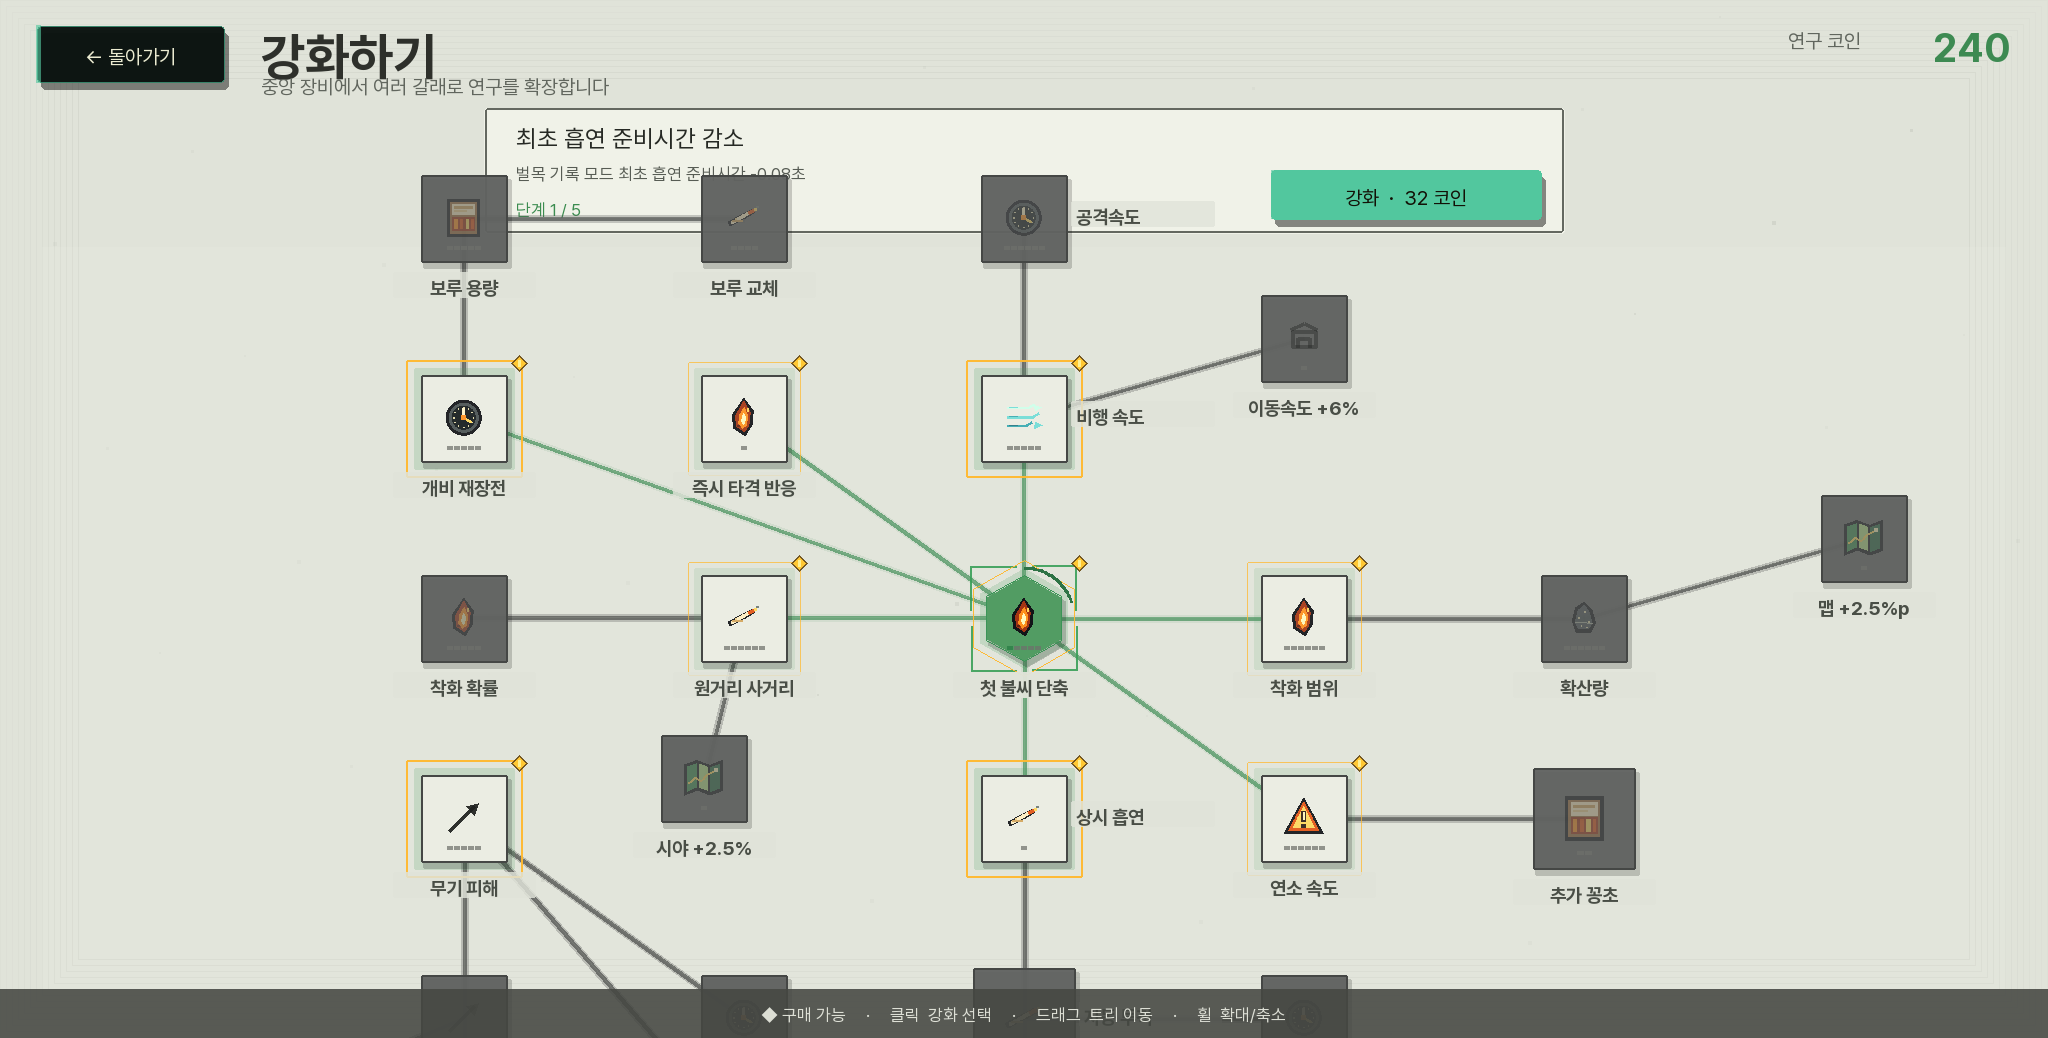
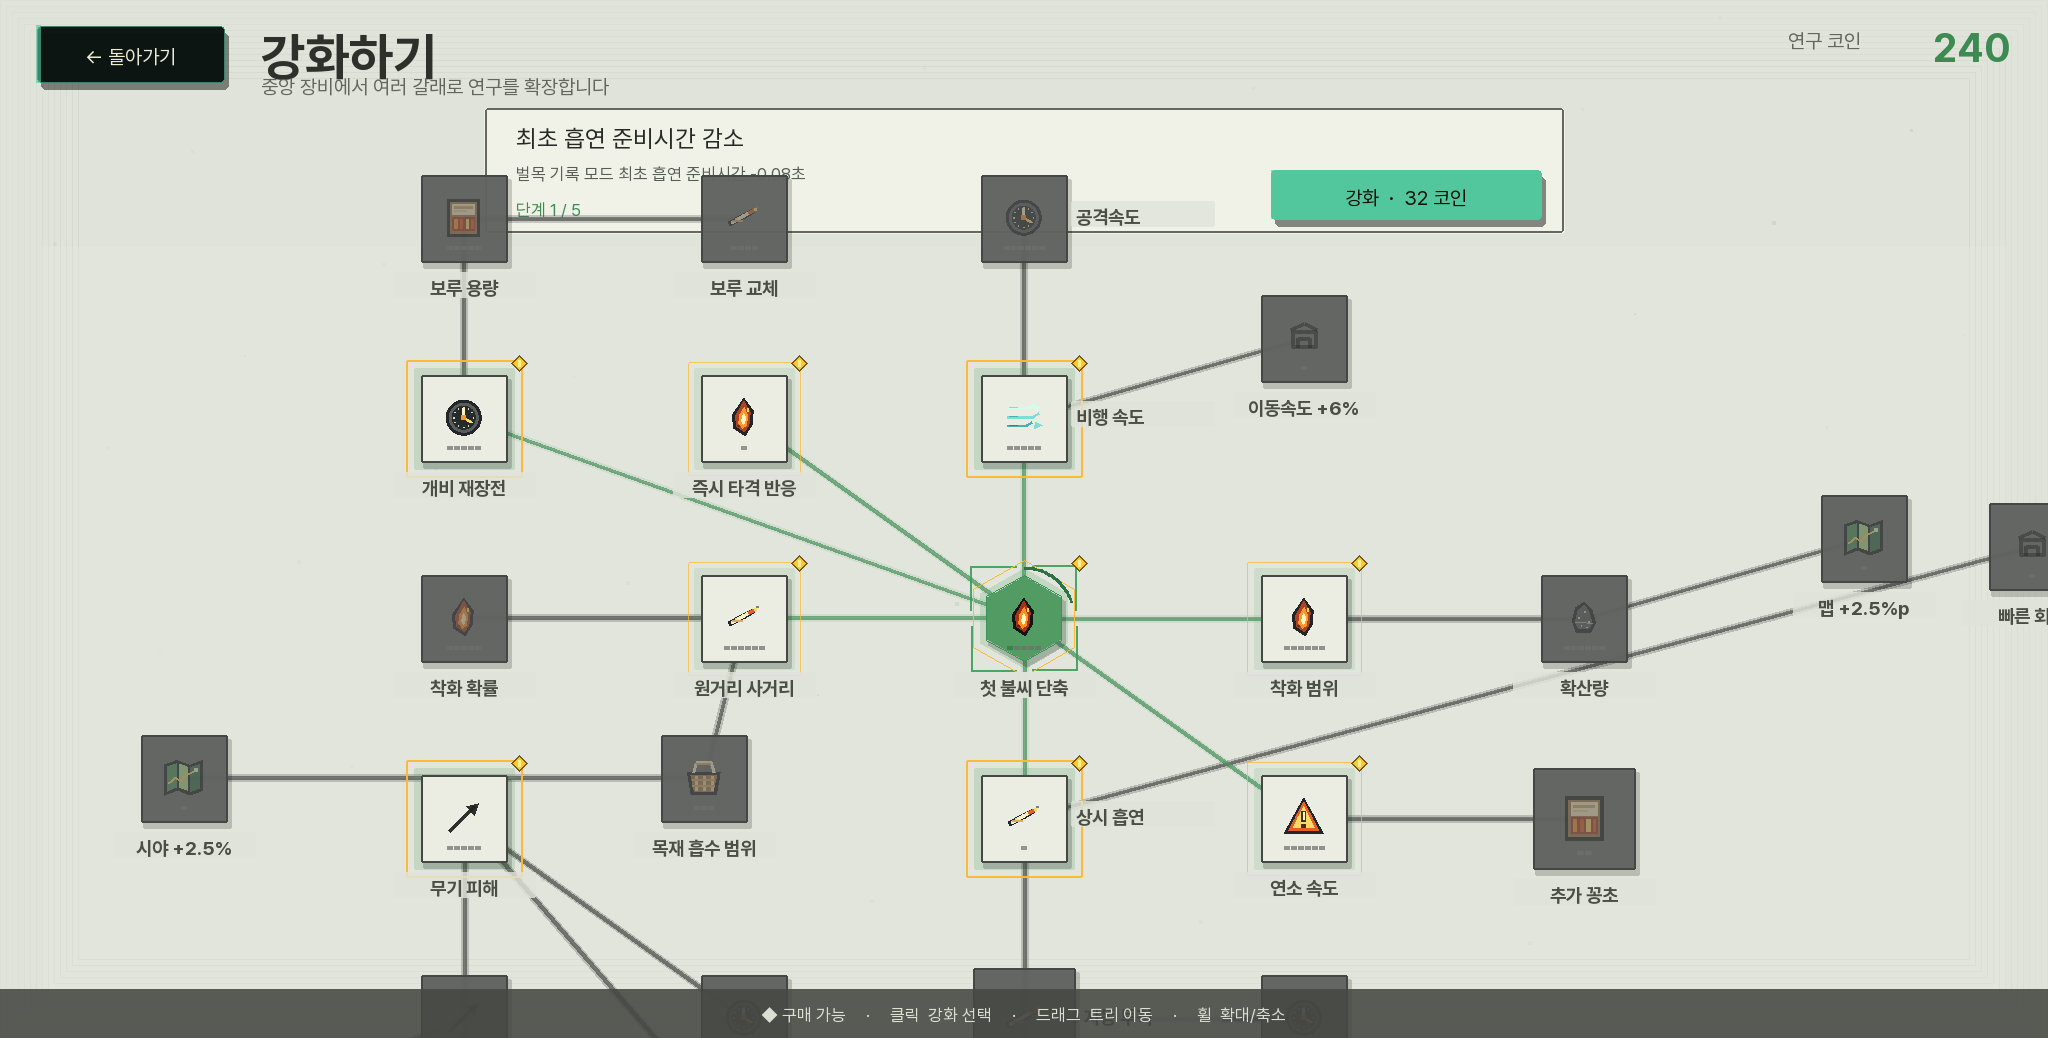
Move popping cart to automation branch

diff --git a/docs/character_dossier.html b/docs/character_dossier.html
@@ -568,7 +568,7 @@ const TRAITS = {
       {id:"fire_score_stride_4",name:"작업자 이동속도 상승",short:"이동속도 +6%",desc:"작업자 이동속도 +6%",max:1,costs:[260],requires:[["fire_score_flame_range_3",1]]},
       {id:"fire_score_pickup_2",name:"목재 끌어당김 범위 상승",short:"목재 흡수 범위",desc:"떨어진 목재를 작업자 쪽으로 끌어당기기 시작하는 범위 +90",max:3,costs:[120,180,260],requires:[["fire_score_flame_width_3",1]]},
       {id:"fire_score_yard_7",name:"작업 구역 확장",short:"맵 +2.5%p",desc:"이동 가능한 맵 크기가 2.5% 넓어지고 나무 허용량이 4그루 증가합니다.",max:1,costs:[310],requires:[["fire_score_pickup_2",2]]},
-      {id:"fire_score_popper_unlock",name:"원숭이 뻥튀기차 해금",short:"원숭이 뻥튀기차",desc:"원숭이가 맵 안에서 계속 뻥튀기차를 끕니다. 쿨타임 뒤 꽁초·화염·불붙은 기름과 접촉하면 예열 후 거대한 뻥튀기를 발사합니다.",max:1,costs:[650],requires:[["fire_score_flame_damage_5",1],["fire_score_flame_range_5",1],["fire_score_flame_width_4",1],["fire_score_flame_ignite_4",1]],capstone:true},
+      {id:"fire_score_popper_unlock",name:"원숭이 뻥튀기차 해금",short:"원숭이 뻥튀기차",desc:"원숭이가 맵 안에서 계속 뻥튀기차를 끕니다. 쿨타임 뒤 꽁초·화염·불붙은 기름과 접촉하면 예열 후 거대한 뻥튀기를 발사합니다.",max:1,costs:[650],requires:[["fire_score_autothrow",1]],capstone:true},
       {id:"fire_score_popper_damage_1",name:"뻥튀기 충돌 피해 상승",short:"단계당 피해 +1",desc:"단계마다 나무에 부딪힐 때 주는 피해 +1",max:3,costs:[30,35,45],requires:[["fire_score_popper_unlock",1]]},
       {id:"fire_score_popper_bounce_1",name:"뻥튀기 튕김 횟수 증가",short:"접촉 +1",desc:"한 발이 연속으로 접촉하는 나무 +1 (기본 3그루)",max:1,costs:[130],requires:[["fire_score_popper_unlock",1]]},
       {id:"fire_score_popper_heat_1",name:"뻥튀기 가열시간 감소",short:"단계당 -0.1초",desc:"단계마다 점화 후 발사까지 걸리는 시간 -0.1초 (기본 2.8초)",max:2,costs:[40,50],requires:[["fire_score_popper_unlock",1]]},
